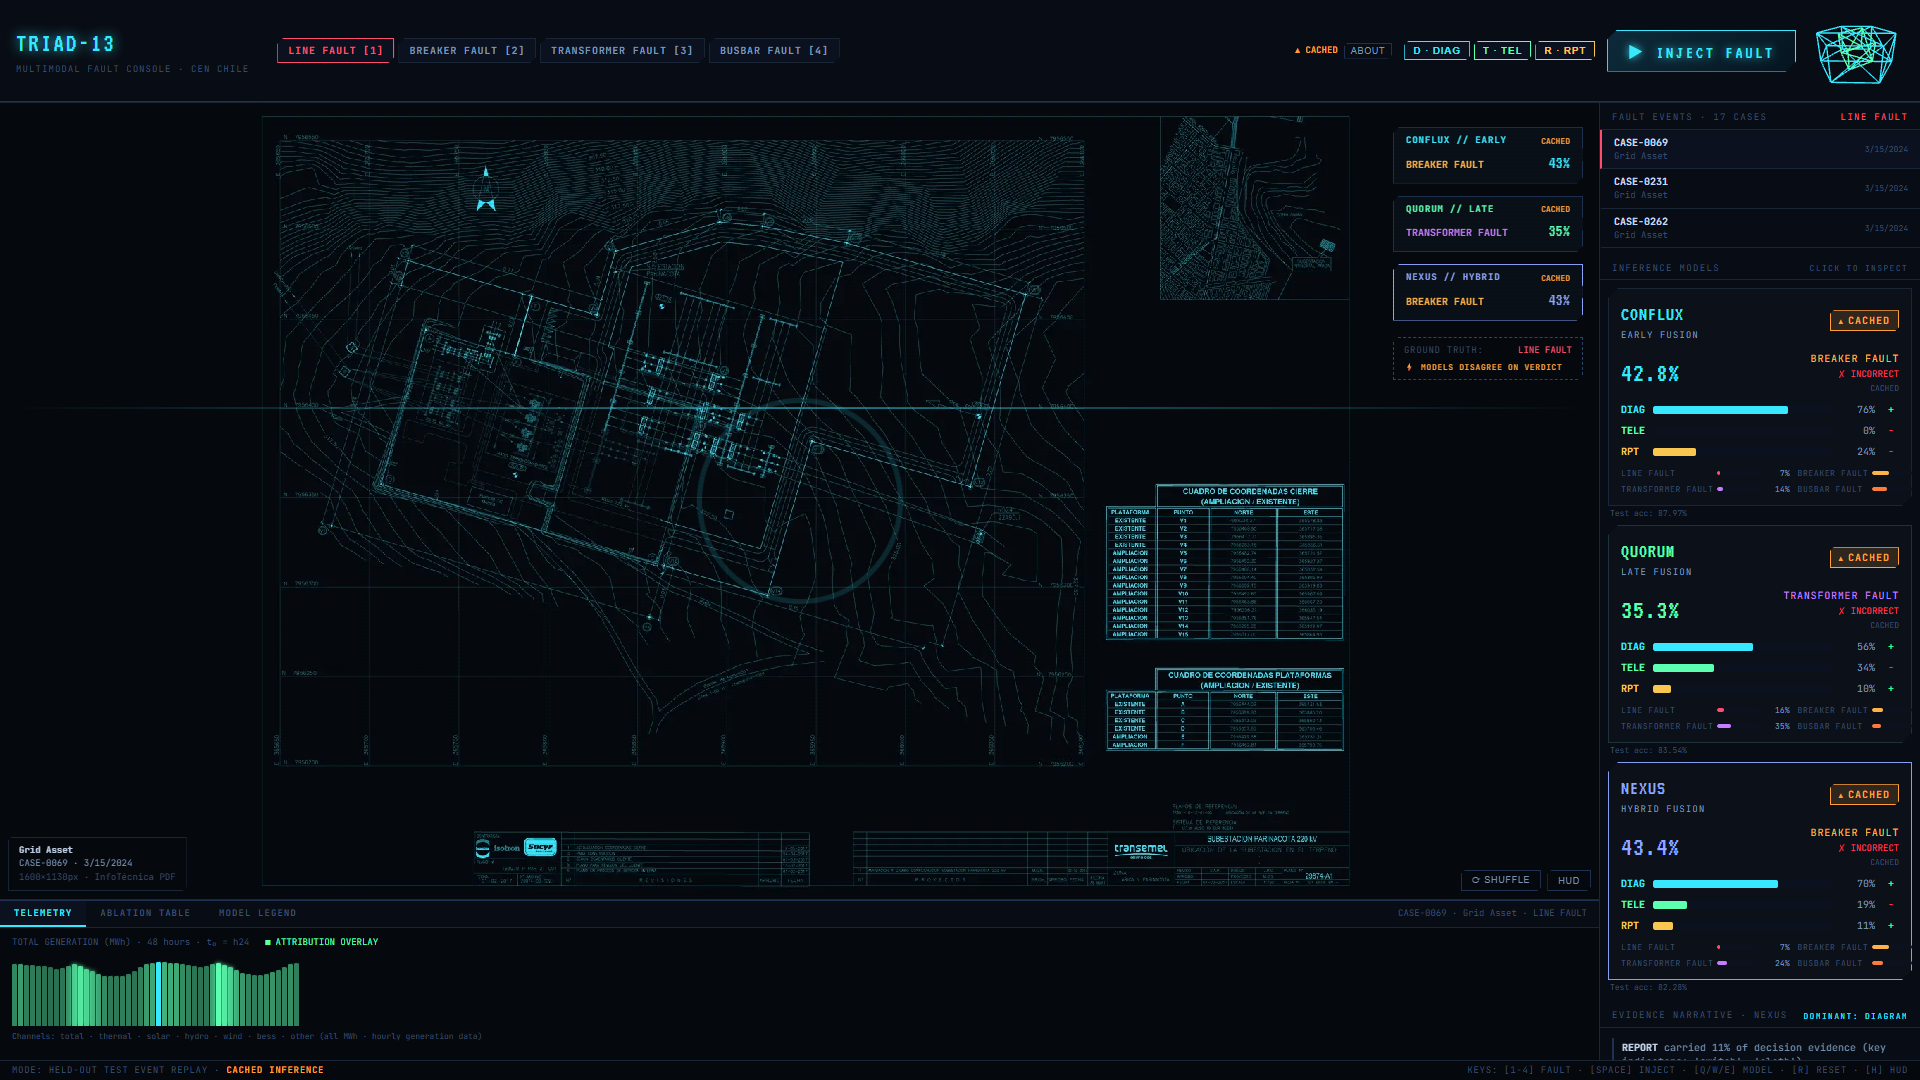
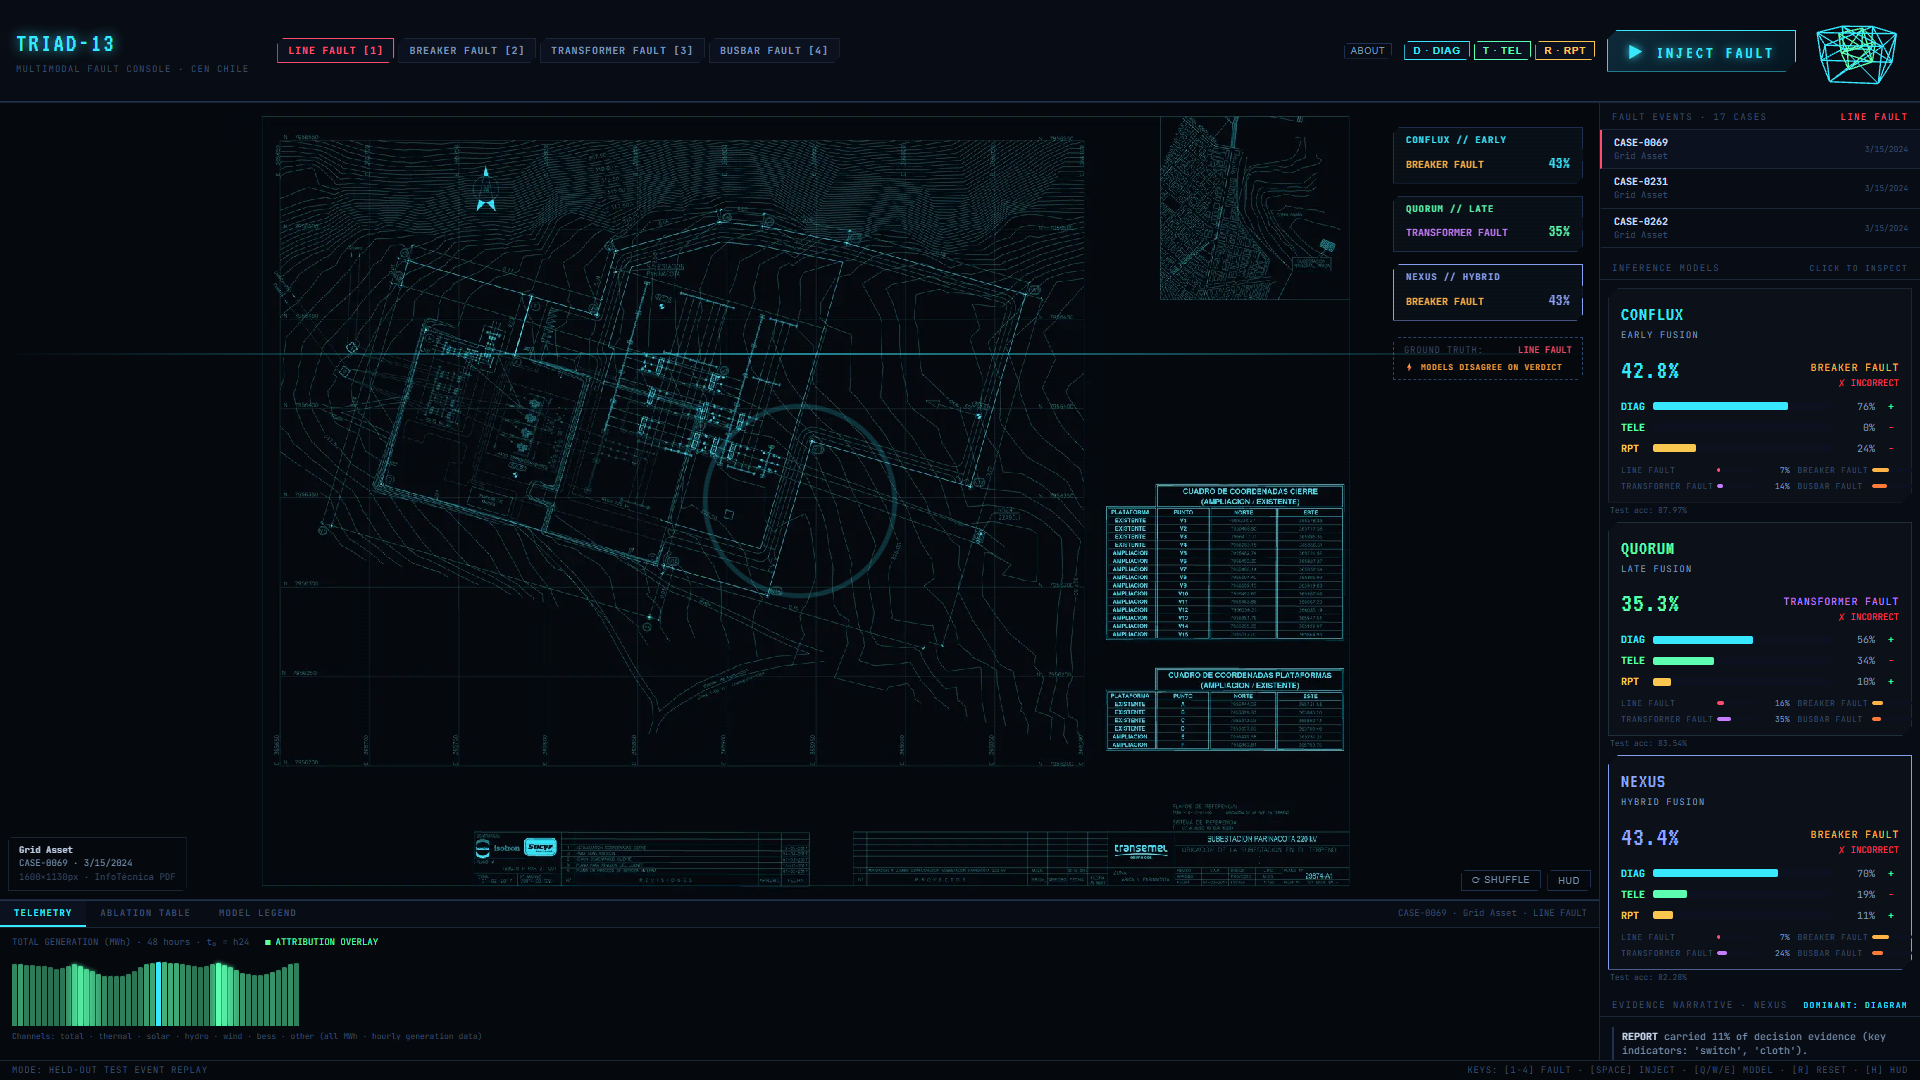
fix(demo): remove orange CACHED indicators from UI

diff --git a/demo/web/src/components/ModelCard.tsx b/demo/web/src/components/ModelCard.tsx
@@ -55,9 +55,9 @@ export default function ModelCard({ modelId, result, active, onClick }: Props) {
           <div className="model-card__fusion">{meta.fusion}</div>
         </div>
         {/* Source badge */}
-        {diag && (
-          <span className={diag.source === 'live' ? 'badge badge-live' : 'badge badge-cached'}>
-            {diag.source}
+        {diag && diag.source === 'live' && (
+          <span className="badge badge-live">
+            live
           </span>
         )}
         {result.loading && <div className="spinner" style={{ borderTopColor: meta.color }} />}
@@ -80,9 +80,11 @@ export default function ModelCard({ modelId, result, active, onClick }: Props) {
               <div style={{ fontSize: 9, color: diag.prediction.correct ? 'var(--status-live)' : 'var(--status-err)', marginTop: 2 }}>
                 {diag.prediction.correct ? '✓ CORRECT' : '✗ INCORRECT'}
               </div>
-              <div style={{ fontSize: 8, color: 'var(--text-dim)', marginTop: 1 }}>
-                {diag.latency_ms > 0 ? `${diag.latency_ms}ms` : 'CACHED'}
-              </div>
+              {diag.latency_ms > 0 && (
+                <div style={{ fontSize: 8, color: 'var(--text-dim)', marginTop: 1 }}>
+                  {`${diag.latency_ms}ms`}
+                </div>
+              )}
             </div>
           </div>
 

diff --git a/demo/web/src/components/AboutModal.tsx b/demo/web/src/components/AboutModal.tsx
@@ -71,7 +71,7 @@ export default function AboutModal({ isOpen, onClose, apiLive }: Props) {
         {/* Content sections */}
         <div style={{ fontSize: 11, lineHeight: 1.6, color: 'var(--text-sec)' }}>
           <p style={{ marginBottom: 12 }}>
-            <strong style={{ color: 'var(--text-pri)' }}>Operational Nature:</strong> This console replays fixed held-out test events from the CEN Chile power transmission network. When a fault is injected, diagnosis and explainability are computed <strong style={{ color: apiLive ? 'var(--status-live)' : 'var(--status-cached)' }}>{apiLive ? 'LIVE' : 'FROM PRECOMPUTED CACHE'}</strong> by the backend inference models. No metrics or attributions are fabricated.
+            <strong style={{ color: 'var(--text-pri)' }}>Operational Nature:</strong> This console replays fixed held-out test events from the CEN Chile power transmission network. When a fault is injected, diagnosis and explainability are computed by the backend inference models. No metrics or attributions are fabricated.
           </p>
 
           <div style={{ background: 'var(--bg-2)', padding: '10px 14px', clipPath: 'var(--chamfer-4)', border: '1px solid var(--line-dim)', marginBottom: 14 }}>

diff --git a/demo/web/src/components/DiagramStage.tsx b/demo/web/src/components/DiagramStage.tsx
@@ -266,15 +266,17 @@ export default function DiagramStage({
                 <span style={{ fontSize: 9, fontWeight: 700, color: modelColor, letterSpacing: '0.1em' }}>
                   {mid.toUpperCase()} // {{ conflux: 'EARLY', quorum: 'LATE', nexus: 'HYBRID' }[mid]}
                 </span>
-                <span
-                  style={{
-                    fontSize: 8,
-                    fontWeight: 700,
-                    color: diag.source === 'live' ? 'var(--status-live)' : 'var(--status-cached)',
-                  }}
-                >
-                  {diag.source.toUpperCase()}
-                </span>
+                {diag.source === 'live' && (
+                  <span
+                    style={{
+                      fontSize: 8,
+                      fontWeight: 700,
+                      color: 'var(--status-live)',
+                    }}
+                  >
+                    LIVE
+                  </span>
+                )}
               </div>
 
               {/* Bubble Body: Fault Class + Confidence */}

diff --git a/demo/web/src/App.tsx b/demo/web/src/App.tsx
@@ -192,10 +192,12 @@ export default function App() {
         }}
       >
         <div>
-          <span>MODE: HELD-OUT TEST EVENT REPLAY · </span>
-          <span style={{ color: apiLive ? 'var(--status-live)' : 'var(--status-cached)', fontWeight: 700 }}>
-            {apiLive ? 'LIVE INFERENCE' : 'CACHED INFERENCE'}
-          </span>
+          <span>MODE: HELD-OUT TEST EVENT REPLAY</span>
+          {apiLive && (
+            <span style={{ color: 'var(--status-live)', fontWeight: 700 }}>
+              {' · LIVE INFERENCE'}
+            </span>
+          )}
           {apiOverride && (
             <span style={{ marginLeft: 8, color: 'var(--conflux)', border: '1px solid var(--conflux)', padding: '0 4px' }}>
               API OVERRIDE: {apiOverride}

diff --git a/demo/web/src/components/Header.tsx b/demo/web/src/components/Header.tsx
@@ -62,9 +62,11 @@ export default function Header({
       <div className="header__controls">
         {/* API status badge */}
         <div style={{ display: 'flex', alignItems: 'center', gap: 6 }}>
-          <span style={{ fontSize: 9, color: apiLive ? 'var(--status-live)' : 'var(--status-cached)', fontWeight: 700 }}>
-            {apiLive ? '● LIVE API' : '▲ CACHED'}
-          </span>
+          {apiLive && (
+            <span style={{ fontSize: 9, color: 'var(--status-live)', fontWeight: 700 }}>
+              ● LIVE API
+            </span>
+          )}
           <button
             onClick={onOpenAbout}
             style={{

diff --git a/demo/web/src/components/RightColumn.tsx b/demo/web/src/components/RightColumn.tsx
@@ -166,7 +166,7 @@ export default function RightColumn({
           ② Pick a fault event<br/>
           ③ Press INJECT FAULT<br/>
           <br/>
-          Models run LIVE when API is reachable; fallback cache is labeled CACHED.
+          Models evaluate multimodal inputs upon fault injection.
         </div>
       )}
     </div>
